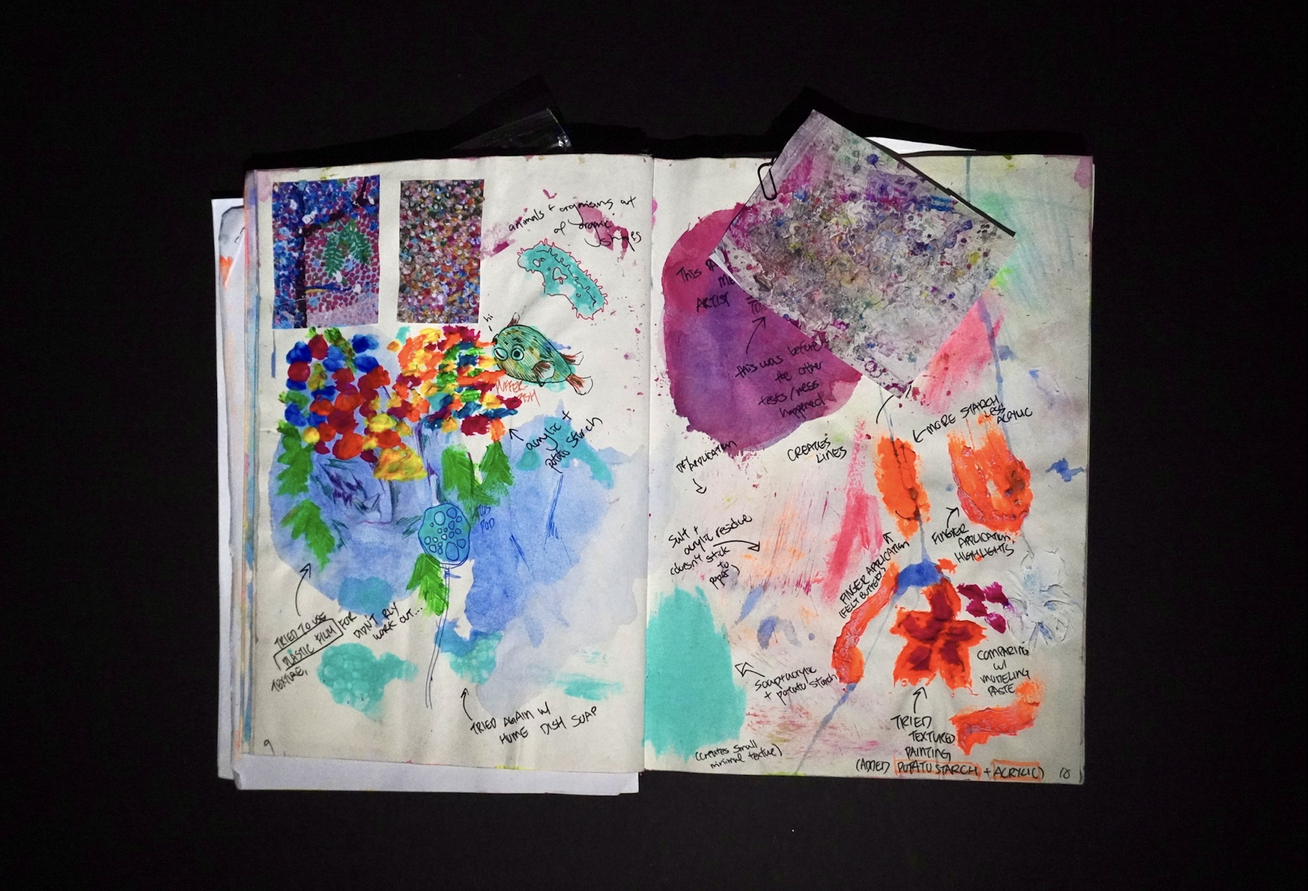
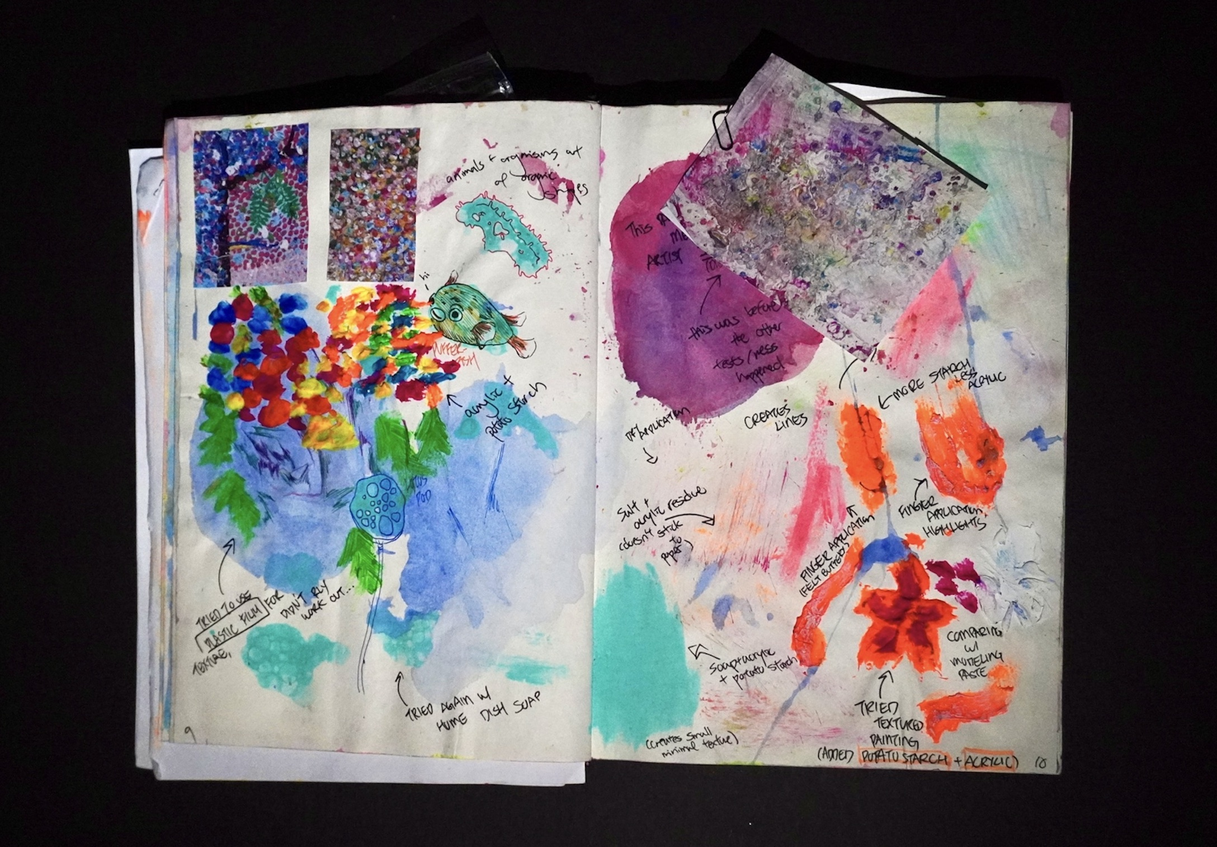
Art: add Untitled (glazed ceramic plate); replace journal page 7
The plate returns as a finished piece in the main Art grid rather than
Works in Progress, with three views in the lightbox and the hover line
following the usual Year · Medium · Dimensions.

Journal page 7 swapped for its replacement, recompressed to q85.

diff --git a/index.html b/index.html
@@ -730,6 +730,13 @@ section.active { display: block; }
         <div class="overlay-title">現実が痛いから</div>
         <div class="overlay-medium">2025 · Pen, Pencil, Highlighter · 15 × 16 cm</div>
       </div>
+    <div class="gallery-item" data-work="untitled-plate">
+      <img src="images/art/untitled-plate-1.jpg" alt="Untitled · Glazed Ceramic" loading="lazy" decoding="async">
+      <div class="overlay">
+        <div class="overlay-title">Untitled</div>
+        <div class="overlay-medium">2024 · Glazed Ceramic · 31 × 23 × 3 cm</div>
+      </div>
+    </div>
     </div>
   </div>
 

diff --git a/main.js b/main.js
@@ -765,6 +765,17 @@ const worksData = {
       'images/art/scintilla-10.jpg'
     ]
   },
+  'untitled-plate': {
+    title: 'Untitled',
+    meta: 'Lee, Chloe. <em>Untitled</em>. 2024. Glazed Ceramic. 31 × 23 × 3 cm.',
+    description: '',
+    thumbs: true,
+    images: [
+      'images/art/untitled-plate-1.jpg',
+      'images/art/untitled-plate-2.jpg',
+      'images/art/untitled-plate-3.jpg'
+    ]
+  },
   'journal': {
     title: 'Journal Pages',
     meta: 'Lee, Chloe. <em>Journal Pages</em>. 2022–2026. Sketchbook.',
